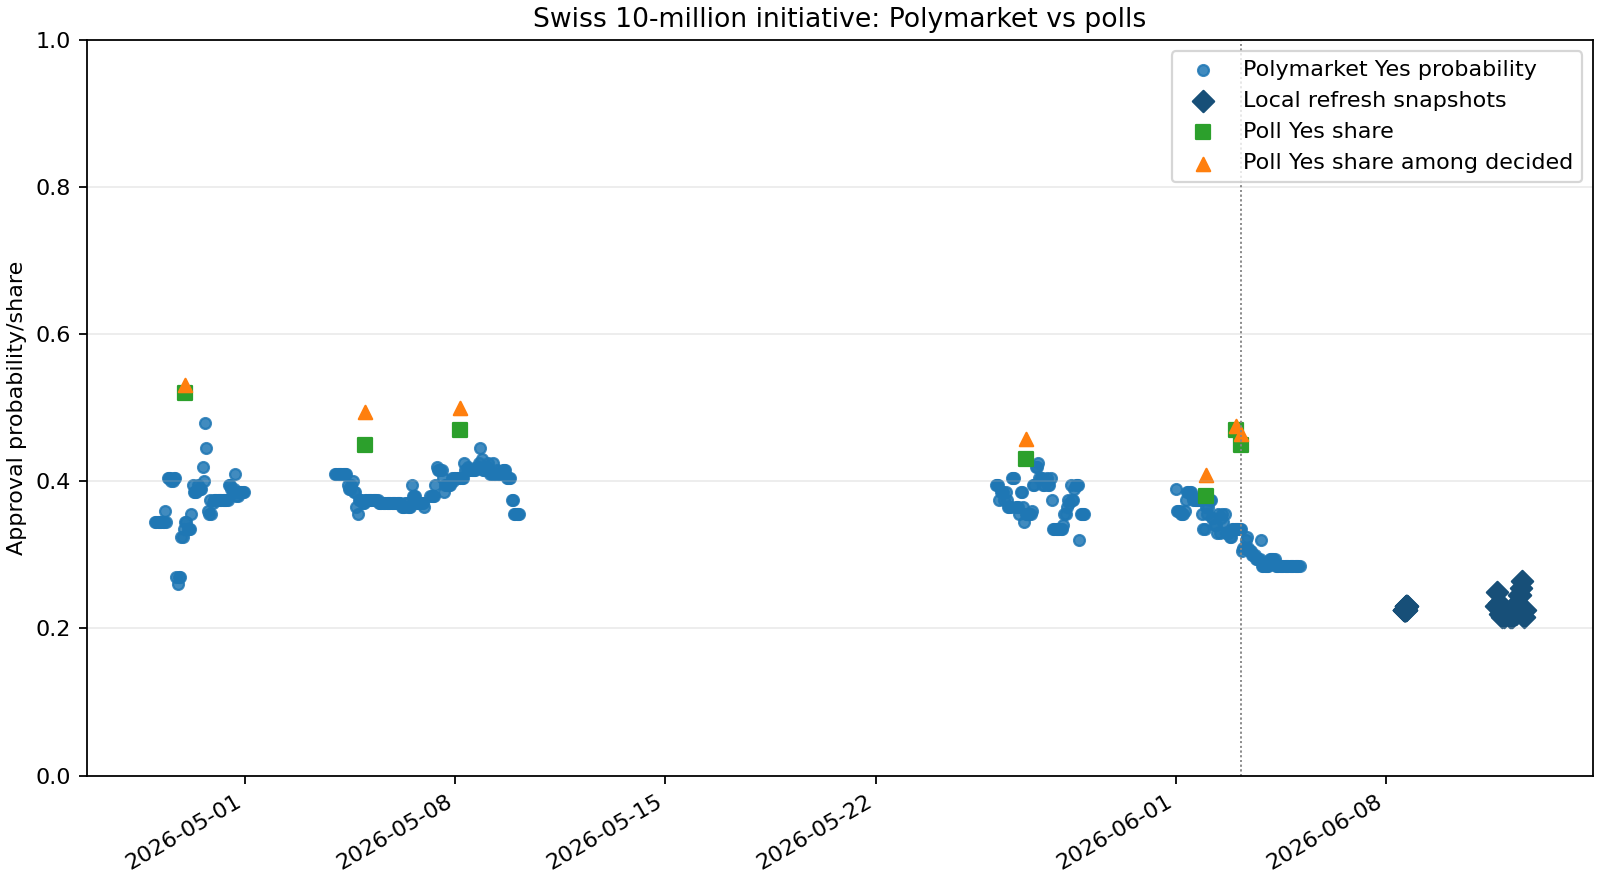
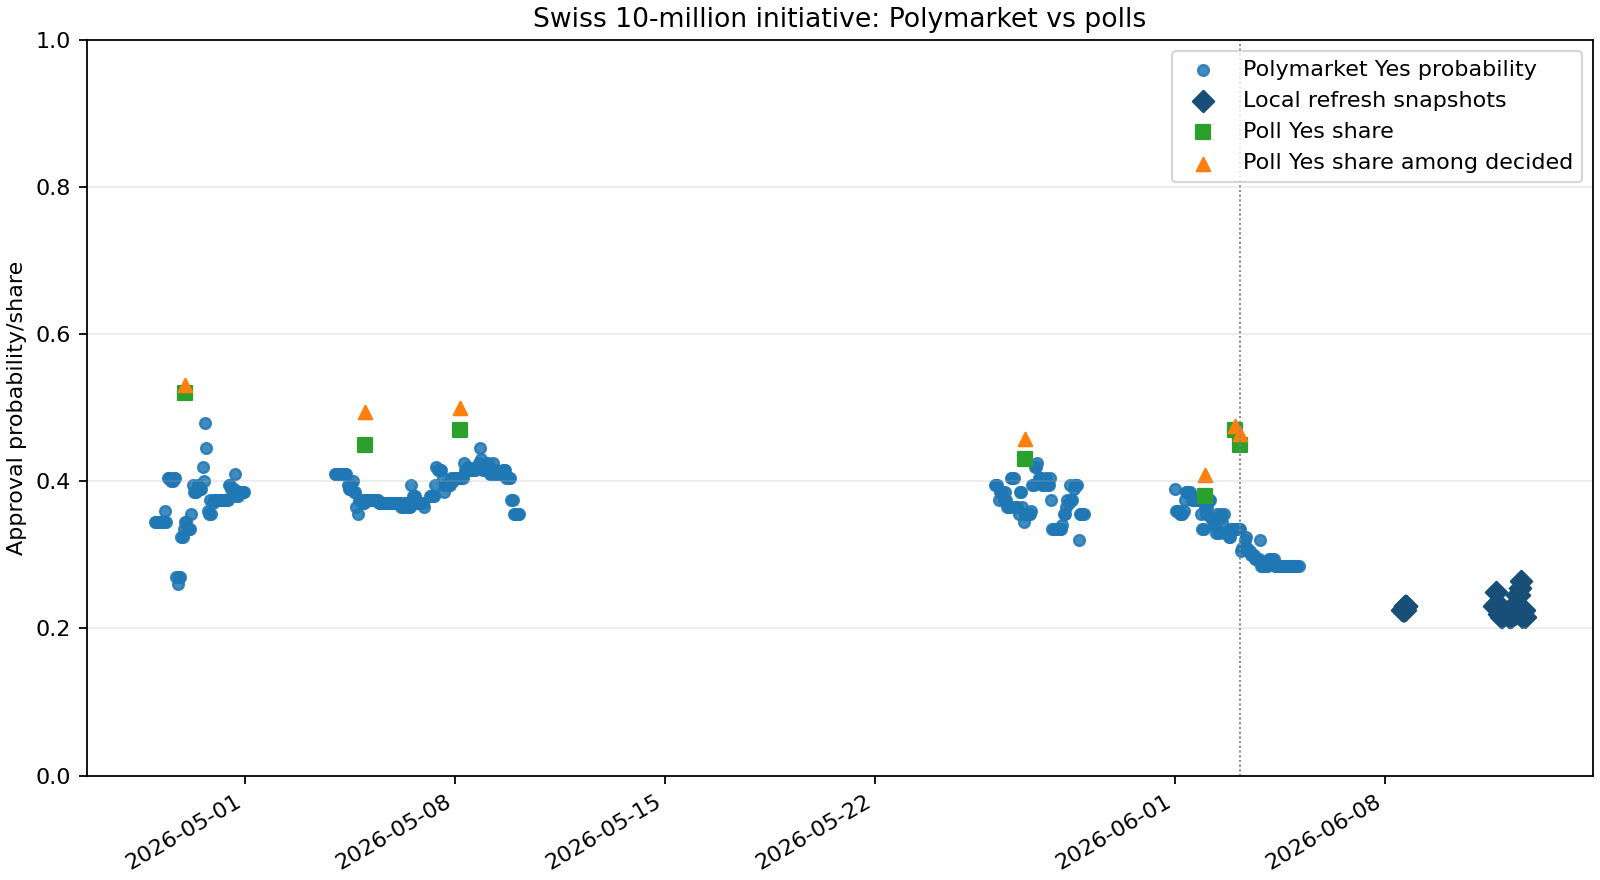
data: update swiss referendum running snapshot

diff --git a/data/results/swiss_referendum_10mio_dashboard.html b/data/results/swiss_referendum_10mio_dashboard.html
@@ -21,15 +21,15 @@
   <h1>Swiss 10-Million Referendum Efficiency View</h1>
   <p class="note">Read-only deterministic comparison. Poll shares are survey shares, not model-implied win probabilities. Divergence labels are descriptive and make no causal, trading, or profitability claim.</p>
   <section class="metrics">
-    <div class="metric">Snapshots<strong>42</strong></div>
+    <div class="metric">Snapshots<strong>43</strong></div>
     <div class="metric">Polls<strong>7</strong></div>
-    <div class="metric">Latest Polymarket Yes<strong>22.5%</strong></div>
+    <div class="metric">Latest Polymarket Yes<strong>21.5%</strong></div>
     <div class="metric">Latest poll comparison<strong>45.0% raw Yes, 46.4% decided Yes</strong></div>
-    <div class="metric">Raw Yes gap<strong>-22.5 pp</strong></div>
-    <div class="metric">Decided Yes gap<strong>-23.9 pp</strong></div>
+    <div class="metric">Raw Yes gap<strong>-23.5 pp</strong></div>
+    <div class="metric">Decided Yes gap<strong>-24.9 pp</strong></div>
     <div class="metric">Label<strong>polymarket_below_poll_yes_share</strong></div>
     <div class="metric">Poll proxy relation<strong>below_poll_proxy</strong></div>
-    <div class="metric compact">Latest local snapshot<strong>2026-06-12T15:04:18Z</strong></div>
+    <div class="metric compact">Latest local snapshot<strong>2026-06-12T16:04:17Z</strong></div>
     <div class="metric compact">Latest matched poll<strong>srg_gfs_bern_2026_w2</strong></div>
     <div class="metric compact">Matched poll published<strong>2026-06-03T03:55:00Z</strong></div>
     <div class="metric compact">Refresh mode<strong>manual bounded refresh</strong></div>
@@ -44,8 +44,7 @@
   <h2>Comparison Rows</h2>
   <table>
     <thead><tr><th>Snapshot</th><th>Polymarket Yes</th><th>Poll</th><th>Poll Yes</th><th>Poll decided Yes</th><th>Raw gap</th><th>Decided gap</th><th>Label</th><th>Poll proxy relation</th></tr></thead>
-    <tbody><tr><td>2026-06-11T20:04:17Z</td><td>0.225</td><td>srg_gfs_bern_2026_w2</td><td>0.450</td><td>0.464</td><td>-0.225</td><td>-0.239</td><td>polymarket_below_poll_yes_share</td><td>below_poll_proxy</td></tr>
-<tr><td>2026-06-11T21:04:18Z</td><td>0.215</td><td>srg_gfs_bern_2026_w2</td><td>0.450</td><td>0.464</td><td>-0.235</td><td>-0.249</td><td>polymarket_below_poll_yes_share</td><td>below_poll_proxy</td></tr>
+    <tbody><tr><td>2026-06-11T21:04:18Z</td><td>0.215</td><td>srg_gfs_bern_2026_w2</td><td>0.450</td><td>0.464</td><td>-0.235</td><td>-0.249</td><td>polymarket_below_poll_yes_share</td><td>below_poll_proxy</td></tr>
 <tr><td>2026-06-11T22:04:21Z</td><td>0.215</td><td>srg_gfs_bern_2026_w2</td><td>0.450</td><td>0.464</td><td>-0.235</td><td>-0.249</td><td>polymarket_below_poll_yes_share</td><td>below_poll_proxy</td></tr>
 <tr><td>2026-06-11T23:04:19Z</td><td>0.220</td><td>srg_gfs_bern_2026_w2</td><td>0.450</td><td>0.464</td><td>-0.230</td><td>-0.244</td><td>polymarket_below_poll_yes_share</td><td>below_poll_proxy</td></tr>
 <tr><td>2026-06-12T00:04:16Z</td><td>0.220</td><td>srg_gfs_bern_2026_w2</td><td>0.450</td><td>0.464</td><td>-0.230</td><td>-0.244</td><td>polymarket_below_poll_yes_share</td><td>below_poll_proxy</td></tr>
@@ -63,15 +62,16 @@
 <tr><td>2026-06-12T12:04:17Z</td><td>0.255</td><td>srg_gfs_bern_2026_w2</td><td>0.450</td><td>0.464</td><td>-0.195</td><td>-0.209</td><td>polymarket_below_poll_yes_share</td><td>below_poll_proxy</td></tr>
 <tr><td>2026-06-12T13:04:17Z</td><td>0.265</td><td>srg_gfs_bern_2026_w2</td><td>0.450</td><td>0.464</td><td>-0.185</td><td>-0.199</td><td>polymarket_below_poll_yes_share</td><td>below_poll_proxy</td></tr>
 <tr><td>2026-06-12T14:04:19Z</td><td>0.215</td><td>srg_gfs_bern_2026_w2</td><td>0.450</td><td>0.464</td><td>-0.235</td><td>-0.249</td><td>polymarket_below_poll_yes_share</td><td>below_poll_proxy</td></tr>
-<tr><td>2026-06-12T15:04:18Z</td><td>0.225</td><td>srg_gfs_bern_2026_w2</td><td>0.450</td><td>0.464</td><td>-0.225</td><td>-0.239</td><td>polymarket_below_poll_yes_share</td><td>below_poll_proxy</td></tr></tbody>
+<tr><td>2026-06-12T15:04:18Z</td><td>0.225</td><td>srg_gfs_bern_2026_w2</td><td>0.450</td><td>0.464</td><td>-0.225</td><td>-0.239</td><td>polymarket_below_poll_yes_share</td><td>below_poll_proxy</td></tr>
+<tr><td>2026-06-12T16:04:17Z</td><td>0.215</td><td>srg_gfs_bern_2026_w2</td><td>0.450</td><td>0.464</td><td>-0.235</td><td>-0.249</td><td>polymarket_below_poll_yes_share</td><td>below_poll_proxy</td></tr></tbody>
   </table>
   <h2>Latest Poll-Source Comparison</h2>
   <p class="note">This table compares the latest local Polymarket snapshot with the newest prior poll from each curated poll source. It is a cross-source poll-proxy view, not a model average or mispricing test.</p>
   <table>
     <thead><tr><th>Source</th><th>Poll</th><th>Published</th><th>Polymarket Yes</th><th>Poll Yes</th><th>Poll decided Yes</th><th>Raw gap</th><th>Decided gap</th><th>Poll proxy relation</th></tr></thead>
-    <tbody><tr><td>SRG/gfs.bern</td><td>srg_gfs_bern_2026_w2</td><td>2026-06-03T03:55:00Z</td><td>0.225</td><td>0.450</td><td>0.464</td><td>-0.225</td><td>-0.239</td><td>below_poll_proxy</td></tr>
-<tr><td>Tamedia/20 Minuten/LeeWas</td><td>tamedia_leewas_2026_w2</td><td>2026-06-03T00:00:00Z</td><td>0.225</td><td>0.470</td><td>0.475</td><td>-0.245</td><td>-0.250</td><td>below_poll_proxy</td></tr>
-<tr><td>YouGov Schweiz</td><td>yougov_2026_w2_final</td><td>2026-06-02T00:00:00Z</td><td>0.225</td><td>0.380</td><td>0.409</td><td>-0.155</td><td>-0.184</td><td>below_poll_proxy</td></tr></tbody>
+    <tbody><tr><td>SRG/gfs.bern</td><td>srg_gfs_bern_2026_w2</td><td>2026-06-03T03:55:00Z</td><td>0.215</td><td>0.450</td><td>0.464</td><td>-0.235</td><td>-0.249</td><td>below_poll_proxy</td></tr>
+<tr><td>Tamedia/20 Minuten/LeeWas</td><td>tamedia_leewas_2026_w2</td><td>2026-06-03T00:00:00Z</td><td>0.215</td><td>0.470</td><td>0.475</td><td>-0.255</td><td>-0.260</td><td>below_poll_proxy</td></tr>
+<tr><td>YouGov Schweiz</td><td>yougov_2026_w2_final</td><td>2026-06-02T00:00:00Z</td><td>0.215</td><td>0.380</td><td>0.409</td><td>-0.165</td><td>-0.194</td><td>below_poll_proxy</td></tr></tbody>
   </table>
   <h2>Poll Release Impact Checks</h2>
   <p class="note">Impact rows require at least one local Polymarket observation before and after the poll publication time. Observations can come from bounded snapshots or bounded public CLOB price-history windows.</p>

diff --git a/data/results/swiss_referendum_10mio_latest_summary.md b/data/results/swiss_referendum_10mio_latest_summary.md
@@ -2,8 +2,8 @@
 
 ## Generated Or Inspected
 
-- Comparison rows: 42.
-- Polymarket snapshot rows: 42.
+- Comparison rows: 43.
+- Polymarket snapshot rows: 43.
 - Bounded price-history rows: 504.
 - Curated poll rows: 7 from SRG/gfs.bern, Tamedia/20 Minuten/LeeWas, YouGov Schweiz.
 - Poll-impact rows: 7 (observed_pre_post: 7).
@@ -25,9 +25,9 @@
 
 ## Latest Poll-Source Comparison
 
-- SRG/gfs.bern: srg_gfs_bern_2026_w2 published 2026-06-03T03:55:00Z; poll Yes 45.0%, decided Yes 46.4%, raw gap -22.5 pp, decided gap -23.9 pp; below_poll_proxy.
-- Tamedia/20 Minuten/LeeWas: tamedia_leewas_2026_w2 published 2026-06-03T00:00:00Z; poll Yes 47.0%, decided Yes 47.5%, raw gap -24.5 pp, decided gap -25.0 pp; below_poll_proxy.
-- YouGov Schweiz: yougov_2026_w2_final published 2026-06-02T00:00:00Z; poll Yes 38.0%, decided Yes 40.9%, raw gap -15.5 pp, decided gap -18.4 pp; below_poll_proxy.
+- SRG/gfs.bern: srg_gfs_bern_2026_w2 published 2026-06-03T03:55:00Z; poll Yes 45.0%, decided Yes 46.4%, raw gap -23.5 pp, decided gap -24.9 pp; below_poll_proxy.
+- Tamedia/20 Minuten/LeeWas: tamedia_leewas_2026_w2 published 2026-06-03T00:00:00Z; poll Yes 47.0%, decided Yes 47.5%, raw gap -25.5 pp, decided gap -26.0 pp; below_poll_proxy.
+- YouGov Schweiz: yougov_2026_w2_final published 2026-06-02T00:00:00Z; poll Yes 38.0%, decided Yes 40.9%, raw gap -16.5 pp, decided gap -19.4 pp; below_poll_proxy.
 
 ## Information Response Summary
 
@@ -42,13 +42,13 @@
 
 ## Key Numerical Result
 
-- Latest snapshot: 2026-06-12T15:04:18Z.
+- Latest snapshot: 2026-06-12T16:04:17Z.
 - Latest matched poll: srg_gfs_bern_2026_w2 (SRG/gfs.bern).
-- Polymarket Yes probability: 22.5%.
+- Polymarket Yes probability: 21.5%.
 - Latest poll Yes share: 45.0%.
 - Latest poll decided Yes share: 46.4%.
-- Raw Yes gap: -22.5 pp.
-- Decided Yes gap: -23.9 pp.
+- Raw Yes gap: -23.5 pp.
+- Decided Yes gap: -24.9 pp.
 - Poll-proxy relation: below_poll_proxy.
 
 ## Bounded Interpretation

diff --git a/docs/project/WORK_LOG.md b/docs/project/WORK_LOG.md
@@ -9355,6 +9355,38 @@ Verification:
   -> PASS, generated 15 inventory rows.
 - `.\.venv\Scripts\python.exe -m operations.project.build_thesis_goal_completion_audit`
   -> PASS, generated 10 audit rows.
+
+## 2026-06-12 - Swiss referendum running snapshot update
+
+Goal context:
+
+- Continued the running Swiss referendum data-collection side track.
+- Kept the output descriptive until the official 14 June 2026 result is
+  available.
+- Did not add a final efficiency, mispricing, causality, tradeability, or
+  market-completeness claim.
+
+Changes:
+
+- Preserved the latest auto-refresh output under `data/results/` as a bounded
+  running snapshot.
+- Updated comparison, latest-source summary, dashboard, metadata, Polymarket
+  snapshot/history outputs, and the local running-status artifact.
+
+Key output:
+
+- Latest snapshot: 2026-06-12T16:04:17Z.
+- Snapshot rows: 43.
+- Latest Polymarket Yes probability: 21.5%.
+- Latest SRG/gfs.bern raw Yes gap: -23.5 pp.
+- Latest SRG/gfs.bern decided Yes gap: -24.9 pp.
+- Valuation scope remains
+  `descriptive_latest_source_poll_proxy_not_true_mispricing_or_trade_signal`.
+
+Verification:
+
+- `.\.venv\Scripts\python.exe -m pytest tests\test_swiss_referendum_auto_refresh.py tests\test_swiss_referendum_efficiency.py tests\test_swiss_referendum_history.py tests\test_swiss_referendum_polymarket.py tests\test_swiss_referendum_refresh.py -q`
+  -> PASS, 32 passed.
 - `.\.venv\Scripts\python.exe -m operations.project.build_thesis_consolidation_index`
   -> PASS, generated 24 indexed artifacts.
 - `.\.venv\Scripts\python.exe -m operations.analysis.thesis_consolidation`
